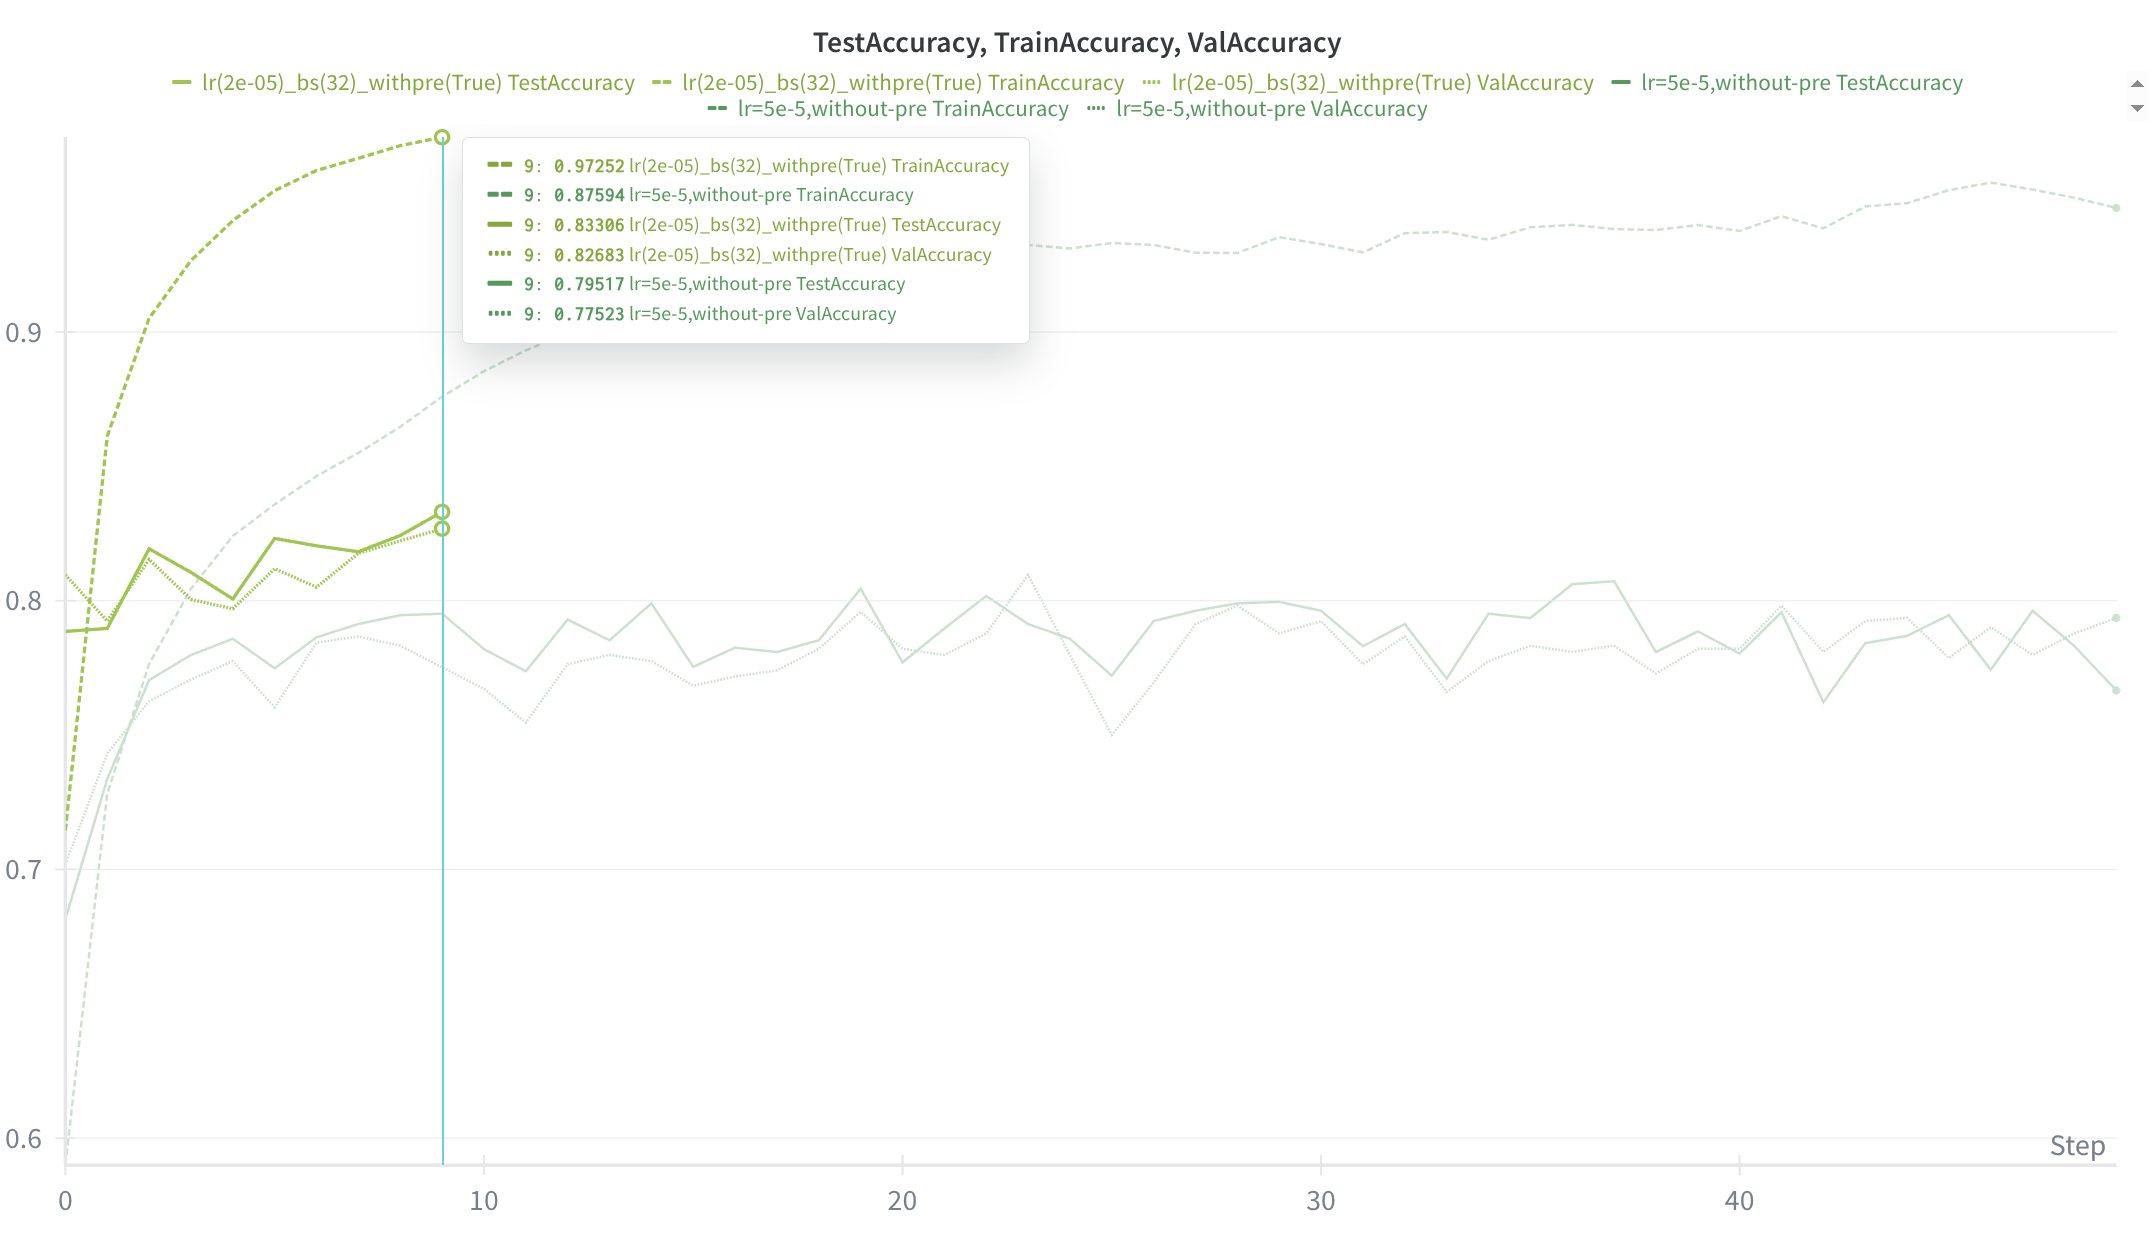
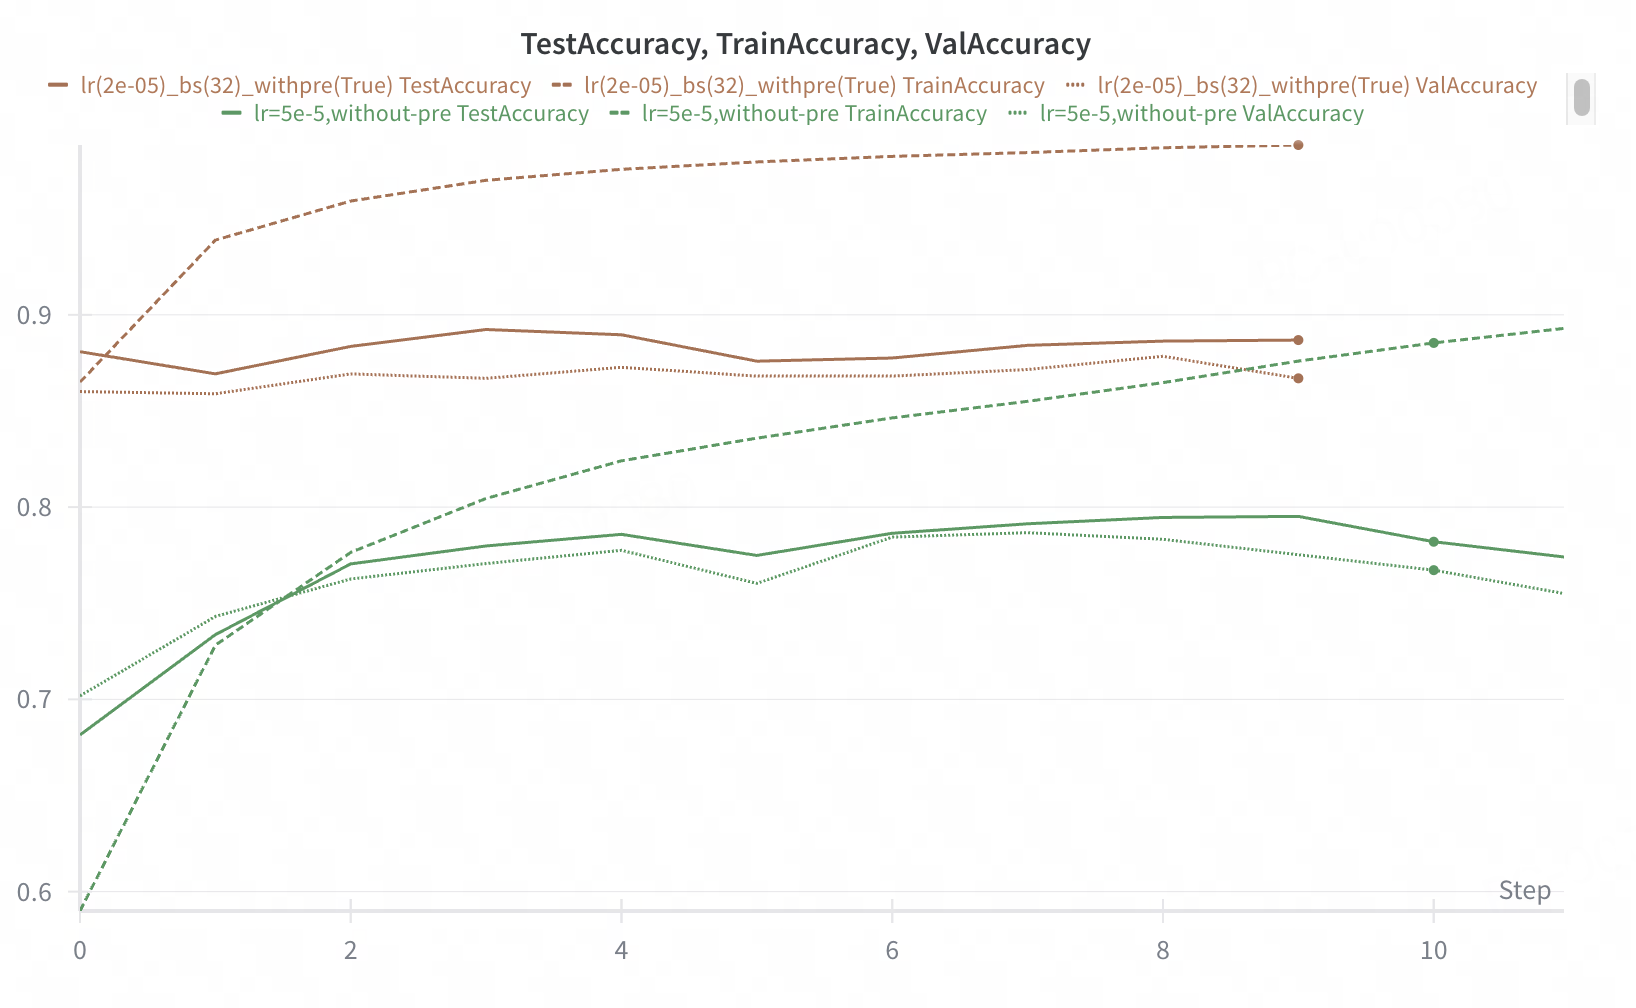
chore(bert): update finetune result (#44)
* chore(bert): update finetune result

diff --git a/toynlp/bert/evaluation.py b/toynlp/bert/evaluation.py
@@ -165,7 +165,7 @@ class SST2BertTrainer:
         val_dataloader: DataLoader,
         test_dataloader: DataLoader,
     ) -> None:
-        best_val_loss = float("inf")
+        best_val_acc = 0.0
         for epoch in range(evaluation_config.epochs):
             train_loss, train_acc = self._train_epoch(train_dataloader)
             val_loss, val_acc, test_loss, test_acc = self._validate_epoch(val_dataloader, test_dataloader)
@@ -176,8 +176,8 @@ class SST2BertTrainer:
                 f"Val Loss: {val_loss:.4f}, Val Acc: {val_acc:.4f}, "
                 f"Test Loss: {test_loss:.4f}, Test Acc: {test_acc:.4f}",
             )
-            if val_loss < best_val_loss:
-                best_val_loss = val_loss
+            if val_acc > best_val_acc:
+                best_val_acc = val_acc
                 torch.save(self.model, self.model_path)
                 print(f"Saved best model({val_loss=:.4f}, {val_acc=:.4f}) from epoch {epoch + 1} to {self.model_path}")
 

diff --git a/toynlp/bert/README.md b/toynlp/bert/README.md
@@ -12,14 +12,14 @@ The differences with the original BERT model:
 |:--------:|:---------------:|:-------------------:|
 | Max Sequence Length | 512 | 128 |
 | Pretraining Dataset | BookCorpus + English Wikipedia | BookCorpus only |
-| Training Epochs | 40 | 5 |
+| Training Epochs | 40 | 6 |
 
 Performance comparison:
 
 | Metric | Original BERT | This Implementation |
 |:--------:|:---------------:|:-------------------:|
-| Perplexity(#L=12, #H=768, #A=12) | 3.99 | 9.67 |
-| SST2 Accuracy | 93.5 | 83.8 |
+| Perplexity(#L=12, #H=768, #A=12) | 3.99 | 8.87 |
+| SST2 Accuracy | 93.5% | 88.6% |
 
 
 ## Finetune: W/O Pretraining on SST2
@@ -124,8 +124,7 @@ Before train the model with full bookscorpus dataset, I try to train the model w
 
 Here is the observations:
 - In first 5 epochs, the 100% dataset got a much more lower perplexity than the 10% dataset. For example, the test perplexity of 100% dataset is about 9.67, while the test perplexity of 10% dataset is about 70.41.
-- The 10% dataset got overfitting within 10 epochs, while the best 
-test perplexity is about 47.46.
+- The 10% dataset got overfitting within 10 epochs, while the best test perplexity is about 47.46.
 
 
 ## The mistakes that I made
@@ -273,7 +272,7 @@ dataloader = torch.utils.data.DataLoader(
 The training is going on and I don't know if this problem will happen again.
 I find both [pytorch/issues/13246](https://github.com/pytorch/pytorch/issues/13246)
 and [datasets/issues/7269](https://github.com/huggingface/datasets/issues/7269) have
-memory leak problems in a way or another. 
+memory leak problems in a way or another.
 To avoid OOM as much as possible, I use `torch.cuda.empty_cache()` to clear the GPU cache after each epoch as discussed in [pytorch/issues/13246](https://github.com/pytorch/pytorch/issues/13246) and it seems to work well.
 (It have run for about one week and no OOM problem so far)
 
@@ -296,6 +295,13 @@ IndexError: Cannot choose from an empty sequence
 
 As a result, I added many try-except blocks to handle the error in dataloader worker gracefully, so that the training process can continue even if some errors occur in the data loading process. You can see this in the current implementation code(the `bert/dataset.py` file).
 The code is not clean at all, but it just works.
+
+### Use wrong tokenizer at evaluation
+
+When I evaluate the pre-train model by finetuning on SST2 dataset,
+I mistakenly use the old tokenizer(trained on 10% bookcorpus dataset)
+instead of the new tokenizer(trained on 90% bookcorpus dataset, the holdout 10% data is used for val/test) to tokenize the input text, which leads to poor performance of the finetune model on SST2 dataset.
+With wrong tokenizer, the best test accuracy is about 83%, while with the correct tokenizer, the best test accuracy is about 89%.
 
 
 
